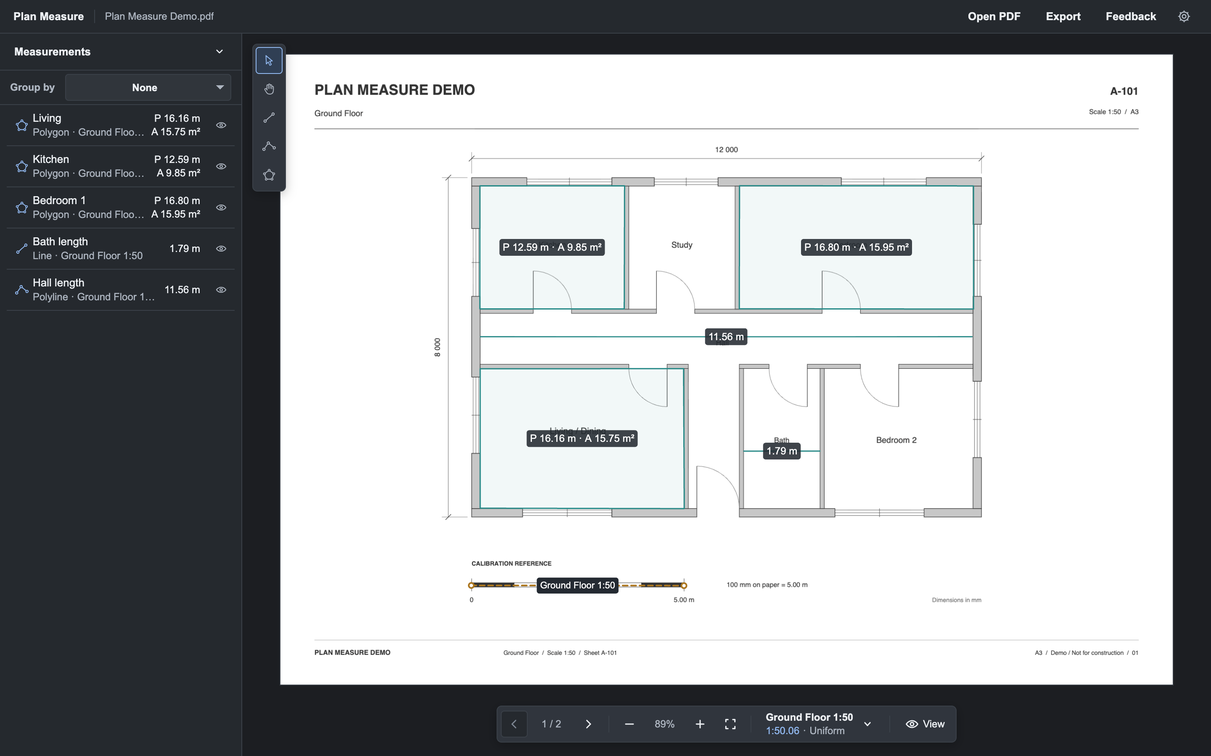
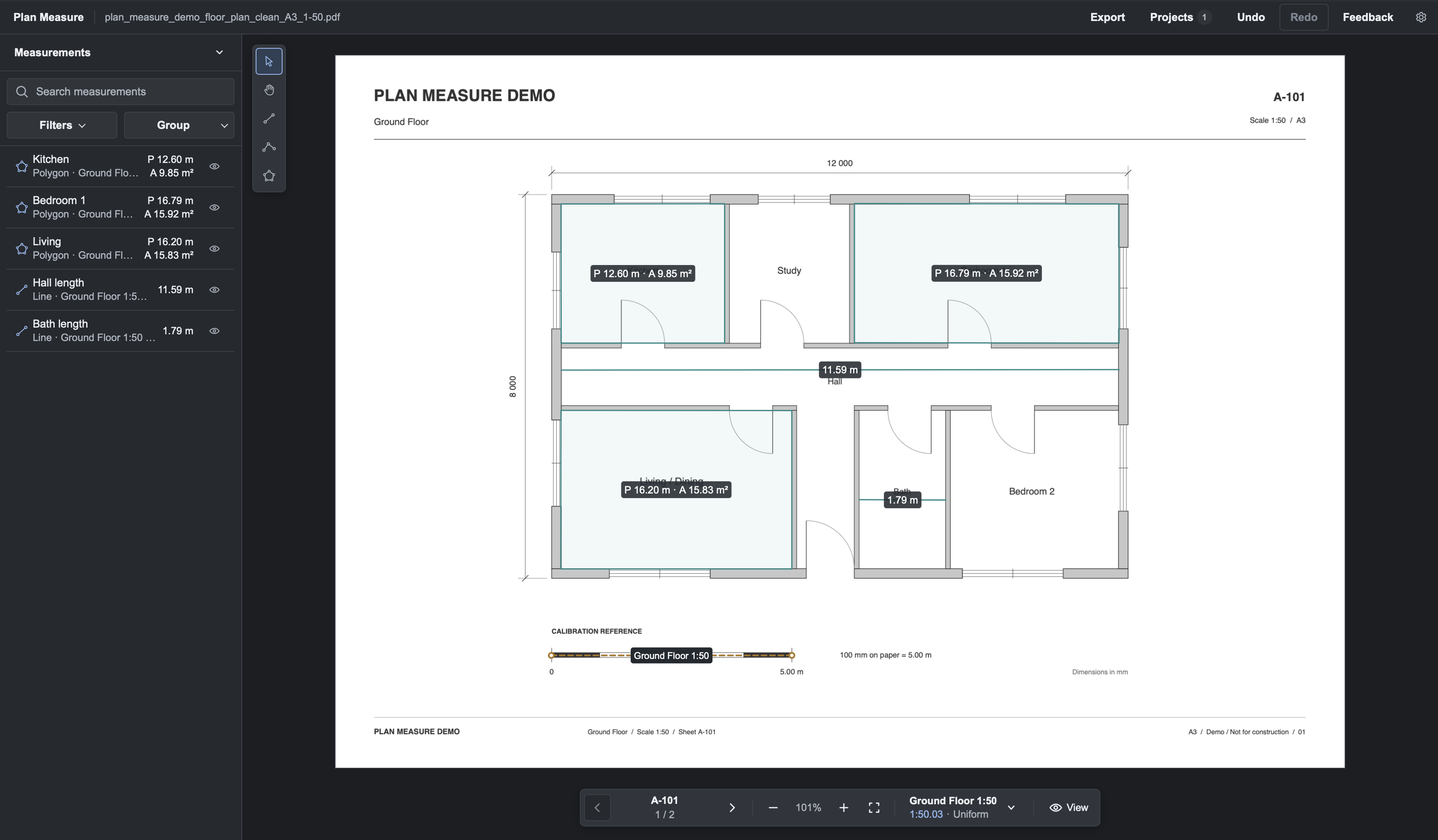
docs: simplify project documentation and update README screenshot

diff --git a/.github/RELEASING.md b/.github/RELEASING.md
@@ -1,46 +1,26 @@
-# Releases
+# Release operations
 
-Release Please owns `package.json`, `package-lock.json`, the version manifest and
-`CHANGELOG.md`. Do not edit their release versions or generated changelog by hand.
+For the release process and versioning rules, see [RELEASING.md](../RELEASING.md). Release Please manages release versions and the changelog; do not edit them by hand.
 
 ## Repository settings
 
-- Keep **Squash merging** as the only merge method. Under **Settings → General →
-  Pull Requests**, set the default squash message to **Pull request title and
-  description** (`squash_merge_commit_title=PR_TITLE`,
-  `squash_merge_commit_message=PR_BODY`). Check the final title before merging.
-- Keep `verify` and `dependency-review` required on `main`, require the branch to
-  be up to date, and retain the existing pull-request and CodeQL protections.
-  Deployment and publication jobs only run after a push to `main`; do not add them
-  as required PR checks.
-- Keep Pages configured with **GitHub Actions** and the `github-pages` environment
-  restricted to `main`. Any environment approval requirement will still pause the
-  deployment until a reviewer approves it.
-- Keep `RELEASE_PLEASE_TOKEN` available to the Release Please workflow. Use a
-  repository-scoped token with **Contents**, **Pull requests**, and **Issues**
-  read/write access, and renew it before expiry. A PAT or GitHub App token lets the
-  bot's PR updates trigger CI. Publication uses the workflow's `GITHUB_TOKEN` with
-  explicit job permissions; no new secret or broader default token permission is
-  needed. Releases created with that token do not trigger additional workflows
-  listening for `release` events; add such downstream work explicitly if needed.
+- Allow only **Squash merging**. Under **Settings → General → Pull Requests**, set the squash message to **Pull request title and description** (`squash_merge_commit_title=PR_TITLE`, `squash_merge_commit_message=PR_BODY`). Check the final title before merging.
+- Require `verify` and `dependency-review` on `main`, require branches to be up to date, and keep the existing PR and CodeQL protections. Deployment and publication run only after pushes to `main`; do not require them on PRs.
+- Configure Pages with **GitHub Actions** and restrict the `github-pages` environment to `main`. Environment approval rules still apply.
+- Provide `RELEASE_PLEASE_TOKEN` to the Release Please workflow. Use a repository-scoped PAT or GitHub App token with **Contents**, **Pull requests**, and **Issues** read/write access so bot PR updates trigger CI. Renew it before expiry; never commit its value.
+
+Publication uses `GITHUB_TOKEN` with explicit job permissions. It needs no additional secret or broader default permissions. Releases created with this token do not trigger workflows listening for `release` events; configure downstream work explicitly if needed.
 
 ## Pull requests and release notes
 
-Use a Conventional Commit title (`feat:`, `fix:`, `perf:`, `revert:`, `docs:`,
-`refactor:`, `chore:`, `ci:`, `test:`, `build:`, or `style:`), with an optional scope
-and `!` for a breaking change. CI validates the title, including after edits.
-Only the squash commit needs to describe the final change; intermediate commits
-may describe the steps taken to implement it.
+Use a Conventional Commit title: `feat:`, `fix:`, `perf:`, `revert:`, `docs:`, `refactor:`, `chore:`, `ci:`, `test:`, `build:`, or `style:`. Add a scope if useful and `!` for a breaking change. CI checks the title, including after edits. The final squash commit describes the complete change; intermediate commits can describe individual steps.
 
-Keep the existing **Summary**, **Validation**, and **Related Issue** structure.
-Write the first Summary bullet as a complete, concrete description of the change
-and its user-visible effect. For example:
+Follow the PR template. Write the first **Summary** bullet as a complete description of the change and its effect. Omit **Related Issue** when there is no issue.
 
 ```markdown
 ## Summary
 
 - Add annotated PDF export that preserves the original pages and overlays visible measurements and labels.
-- Explain any additional implementation detail here.
 
 ## Validation
 
@@ -51,78 +31,39 @@ and its user-visible effect. For example:
 - Closes #113
 ```
 
-The first Summary bullet (including wrapped continuation lines) enriches the
-release entry automatically. When a commit produces multiple distinct changelog
-entries, their specific descriptions are retained. Other bullets and validation commands are not copied
-into release notes. Avoid placeholders or a first bullet that merely says “Fix the
-bug”. Without a usable Summary, the generated changelog description is retained;
-the automation does not invent missing context. Keep the Summary accurate when
-updating a PR. No separate release-note field or manual release editing is needed.
+The first Summary bullet, including continuation lines, supplies the release-note description. Other bullets and validation commands are excluded. Keep this summary accurate when updating a PR. If it is missing or unusable, the generated changelog description is kept. When a commit produces several distinct changelog entries, their specific descriptions are preserved.
 
-Notes normalize initial capitalization and terminal punctuation, retain Markdown,
-link the source PR and explicit `Closes` / `Fixes` / `Resolves` issue references,
-and retain a commit link if no PR/issue reference is available. Source PRs must
-match the actual squash commit; a mentioned issue is never assumed to be a PR.
-Breaking-change explanations are preserved in their own section. Documentation
-PRs (`docs:`) appear in the **Documentation** section and can create a patch release
-on their own. Other hidden changelog types remain hidden; `ci:` alone does not
-create a new product release.
+Release notes preserve Markdown, normalize initial capitalization and final punctuation, and link the source PR and explicit `Closes`, `Fixes`, or `Resolves` references. A commit link is kept when no PR or issue link is available. The source PR must match the squash commit; mentioning an issue does not make it a source PR.
 
-A preview using only the local changelog is included in the CI job summary. To
-preview the enriched notes locally, with a GitHub token available as `GH_TOKEN`:
+Breaking changes have their own section. Documentation PRs (`docs:`) appear under **Documentation** and can produce a patch release. Other maintenance types stay hidden; `ci:` alone does not create a release.
+
+CI includes a preview based on the local changelog. To preview notes with PR summaries, set `GH_TOKEN` and run:
 
 ```bash
 node .github/scripts/preview-release-notes.mjs --with-pull-requests
 ```
 
-This command performs only reads. It does not modify the changelog or any release.
+The preview reads data without changing the changelog or releases.
 
-## Publishing
+## Publication sequence
 
-1. Merge ordinary PRs using squash. After the main pipeline succeeds, Release
-   Please creates or updates its draft release PR. Keep its generated version, branch name and state labels intact.
-2. When ready to ship, mark the release PR ready, wait for required checks, then
-   squash-merge it. Do not create tags or releases manually.
-3. The `CI` run for that exact main commit runs `verify`, then the reusable Pages
-   workflow, then the reusable publication workflow. A failed check or deployment
-   blocks publication. Pages continues to deploy ordinary main commits too.
-4. Publication validates all version files, creates a tag at the tested SHA,
-   prepares and verifies a draft with complete notes, then publishes it. Only
-   afterward does it reconcile `autorelease: tagged` and `autorelease: pending`.
-5. Release Please refreshes the next release PR after publication. This also
-   picks up changes merged while an earlier release was pending. It can be
-   refreshed manually with the **Release Please** workflow on `main`.
+1. Squash merge ordinary PRs. After the main pipeline succeeds, Release Please creates or updates its draft release PR. Leave its generated version, branch name, and state labels intact.
+2. To publish, mark the release PR ready, wait for required checks, and squash merge it. Do not create tags or releases manually.
+3. CI runs `verify`, then Pages deployment, then publication for that exact commit. A failed check or deployment blocks publication. Ordinary main commits also deploy to Pages.
+4. Publication verifies version files, the successful Pages `deploy` job, and the unique merged Release Please PR with `autorelease: pending`. It creates the tag at the validated SHA, prepares and verifies a draft release with complete notes, and publishes it. Only then does it update the `autorelease: tagged` and `autorelease: pending` labels.
+5. Release Please refreshes the next release PR, including changes merged while an earlier release was pending. To refresh it manually, run the **Release Please** workflow on `main`.
 
-Main pipelines queue without canceling a pending release when more PRs merge.
-GitHub's [`queue: max`](https://docs.github.com/en/actions/how-tos/write-workflows/choose-when-workflows-run/control-workflow-concurrency) has a platform limit of 100 pending runs and orders them by
-when they enter the queue. The Pages guard prevents an old rerun or out-of-order
-run from rolling back a newer successful deployment. Release Please and release
-publication also share a serialization group so they cannot observe a half-updated
-label transition.
+Main pipelines queue without canceling pending releases. GitHub's [`queue: max`](https://docs.github.com/en/actions/how-tos/write-workflows/choose-when-workflows-run/control-workflow-concurrency) allows up to 100 pending runs, ordered by queue entry time. The Pages guard prevents older runs from replacing a newer successful deployment. Release Please and publication share a serialization group to keep label updates consistent.
 
 ## Recovery
 
-Use **Actions → CI → the affected main run → Re-run failed jobs**. The reusable
-workflows are part of this run; they are not separate manually dispatched flows.
-Prefer retrying a failure before merging additional work.
+Open **Actions → CI → the affected main run → Re-run failed jobs**. Deployment and publication are reusable workflows within that run, not separate manually dispatched workflows. Retry failures before merging more work when possible.
 
-- Existing tags must point to the exact validated SHA. A mismatch stops the run;
-  the automation never moves or deletes a tag.
-- A tag without a release or a partially prepared draft is completed on retry.
-- A published release is verified and missing state labels are repaired. Its
-  notes are preserved even if someone later edits a source PR.
-- Retrying an older published version does not replace a newer **Latest** release.
-- An old run whose exact SHA previously deployed can finish publication without
-  redeploying over newer Pages content. If a newer SHA is already deployed and
-  the old SHA never deployed successfully, the run fails safely. Do not delete a
-  newer deployment or move a tag to bypass it; investigate that skipped release
-  before deciding how to recover it.
-- API failures are failures, not “release does not exist”. Correct permissions,
-  renew an expired token, or retry a transient failure as appropriate.
+- Tags must point to the validated SHA. A mismatch fails the run; the automation never moves or deletes tags.
+- Retries complete missing releases and partially prepared drafts.
+- Retries verify published releases and repair missing state labels. Published notes are preserved even if the source PR is edited later.
+- Retrying an older version does not replace a newer **Latest** release.
+- An older run can finish publication if its exact SHA previously deployed, without replacing newer Pages content. If it never deployed and a newer SHA is already deployed, it fails. Investigate the skipped release; do not delete a newer deployment or move a tag to bypass the guard.
+- API errors fail the run. Check permissions, renew expired tokens, or retry transient failures; do not treat an API failure as a missing release.
 
-Before merging the workflow migration, let any in-flight executions of the old
-standalone deployment/publication workflows finish.
-
-The local test suite simulates API state transitions and failures. The first
-post-merge run still needs to confirm real GitHub permissions, environment rules
-and publication behavior. Local checks do not create a test release in GitHub.
+Local tests cover API transitions and failures. After workflow changes, verify GitHub permissions, environment rules, and publication behavior in the first main run. Local checks do not publish a test release.

diff --git a/README.md b/README.md
@@ -35,9 +35,9 @@ Each page can have multiple named scales. Choose **Add scale** in **Scales**:
 - **Custom ratio**: enter the denominator of a known 1:n scale.
 - **Standard ratios**: choose 1:20, 1:50, or 1:100.
 
-Reference distances accept mm, cm, m, decimal inches or feet, and feet-and-inches input. Select the active scale from the controls below the plan before drawing.
+Reference distances accept mm, cm, m, decimal inches or feet, and feet-and-inches input. Choose the active scale below the plan before drawing.
 
-The active scale applies only to new measurements. Existing measurements keep their original scale. Expand a scale to rename it, set its ratio, recalibrate it, or edit its reference points. Changing its calibration updates linked measurements, with confirmation when the scale is in use; renaming it only changes its name.
+New measurements use the active scale; existing ones keep their original scale. Expand a scale to rename it, set its ratio, recalibrate it, or edit its reference points. Calibration changes update linked measurements, with confirmation when the scale is in use. Renaming a scale leaves its calibration unchanged.
 
 To reuse a scale, choose its copy button in **Scales**, switch to another page, and choose **Apply copied scale** below the plan. The copied scale is independent of the original.
 
@@ -47,9 +47,9 @@ To reuse a scale, choose its copy button in **Scales**, switch to another page, 
 
 While drawing, use **Snap** to align points with visible measurement geometry and **Ortho** to constrain segments horizontally or vertically. **Cancel** or `Escape` discards the current drawing.
 
-With **Select**, move a measurement or drag its vertices to edit its geometry. The toolbar above the plan provides rename, duplicate, **Details**, and delete actions for the selected measurement. You can also copy and paste a measurement with the shortcuts below.
+With **Select**, move a measurement or drag its vertices to edit its geometry. Use the toolbar above the plan to rename, duplicate, inspect, or delete the selection. Copy and paste with the shortcuts below.
 
-In **Details**, review the measurement's results and scale, rename it, write a note and choose **Save note**, or assign classification values under **Organization**.
+Open **Details** to review results and the scale, rename the measurement, or add a note with **Save note**. Assign classification values under **Organization**.
 
 Create classification dimensions and values in **Classifications**. For example, a **Trade** dimension can contain **Electrical** and **Plumbing** values. Dimensions and values can be renamed, archived, and restored; archived entries keep their existing assignments.
 
@@ -57,7 +57,7 @@ Create classification dimensions and values in **Classifications**. For example,
 
 **Takeoff** totals measurements across all pages, including hidden measurements. Length totals cover Lines and Polylines; perimeter and area totals cover Polygons. Choose a **Breakdown** by page, type, or classification dimension. Measurements that cannot be calculated are excluded with a notice.
 
-Use **Undo** and **Redo** in the top bar or their keyboard shortcuts to reverse and restore edits to measurements, scales, classifications, and page labels. History keeps up to 100 edits and resets when a project is opened or the app is reloaded. A new edit after undo clears the redo history. Page navigation and display settings are not part of this history.
+Use **Undo** and **Redo** in the top bar or their shortcuts for measurement, scale, classification, and page-label edits. History holds up to 100 edits and resets when you open a project or reload the app. Editing after undo clears redo history. Navigation and display settings are excluded.
 
 ## View and settings
 
@@ -75,11 +75,11 @@ The controls below the plan let you change pages, zoom, or **Fit** the page to t
 
 Projects are autosaved on this device. Choose **Projects** in the top bar to continue or open a saved project, export it, import a project file, or discard a project after confirmation. Opening another PDF or importing a project creates a new local project and keeps existing saved projects.
 
-A `.planmeasure` export contains the PDF and working data so you can back up a project or import it on another device. Undo/redo history is not included.
+Export a `.planmeasure` file to back up the PDF and working data or transfer them to another device.
 
-PDF processing happens in the browser. Plan Measure has no account or cloud storage service, and the application code does not send plan or measurement data to a server. PDFs and project data are stored in IndexedDB; appearance, deletion-confirmation, and recovered-plan workspace preferences are stored in local storage.
+Plan Measure processes PDFs in your browser and does not send plans or measurements to a server. PDFs and projects stay in IndexedDB; appearance, deletion-confirmation, and startup workspace preferences stay in local storage.
 
-Completed changes are autosaved, with pending changes flushed when the tab is hidden or the page exits when possible. Drawing drafts, Snap, Ortho, zoom, pan, and undo/redo history are not persisted. Clearing browser site data removes locally saved projects; export `.planmeasure` files to keep backups.
+Completed edits are autosaved. Pending saves run when the tab is hidden or closed, when possible. Drafts, Snap, Ortho, zoom, pan, and undo/redo history are not saved. Clearing browser site data removes saved projects; keep `.planmeasure` backups.
 
 If local storage is unavailable or autosave fails, follow the warning shown by the app and export your work before leaving. Older saved data is migrated when possible; if it requires repair, autosave stays paused until the reported problems are resolved.
 
@@ -117,7 +117,7 @@ Use `Cmd` on macOS and `Ctrl` on Windows or Linux.
 | `Cmd/Ctrl+V`           | Paste a copied measurement                                               |
 | `Delete` / `Backspace` | Delete the selected measurement                                          |
 
-Application shortcuts remain available after using non-editing controls. Text fields, dialogs, and native control actions retain their normal keyboard behavior.
+Shortcuts work outside text fields and dialogs. Native control actions keep their usual keys.
 
 ## Limitations
 

diff --git a/RELEASING.md b/RELEASING.md
@@ -1,48 +1,32 @@
 # Releasing Plan Measure
 
-Plan Measure uses Release Please to prepare releases and publishes them only after the release commit has passed CI and deployed successfully to GitHub Pages.
+Release Please prepares release pull requests. CI publishes a release only after its commit passes validation and deploys to GitHub Pages.
 
-## Development pull requests
+## Pull requests
 
-Because the repository uses squash merge, development pull request titles must use Conventional Commits. The squashed commit on `main` is what Release Please analyzes. Typical prefixes are `feat:`, `fix:`, `perf:`, `docs:`, `refactor:`, and `chore:`; use `feat!:` or `fix!:` for a breaking change.
+Use a Conventional Commit title, such as `feat:`, `fix:`, `perf:`, or `docs:`. Add `!` for a breaking change. The repository uses squash merge, so Release Please reads the PR title from the resulting commit on `main`.
 
-After changes are merged or pushed to `main`, the `Release Please` workflow creates or updates a **draft Release PR**. During the normal release flow, maintainers must not manually change release versions or the generated changelog entry. Release Please updates:
+Write the first **Summary** bullet as a concrete description of the change and its effect. It becomes the release-note description. Include checks under **Validation** and issue references under **Related Issue**.
 
-- `package.json`
-- `package-lock.json`
-- `.release-please-manifest.json`
-- `CHANGELOG.md`
+Release Please manages versions in `package.json`, `package-lock.json`, and `.release-please-manifest.json`, along with `CHANGELOG.md`. Do not edit them by hand to prepare a release.
 
-The workflow uses the repository secret `RELEASE_PLEASE_TOKEN` when creating or updating the Release PR so normal pull request workflows can run for those updates. The secret must be configured before this release automation is merged; its value must not be documented or committed.
+## Publishing
 
-## Publishing a release
+1. Review the draft release PR and its version and changelog changes.
+2. Mark it **Ready for review**, wait for required checks, and squash merge it into `main`.
+3. CI validates the merged commit, deploys it to Pages, and publishes its tag and GitHub Release.
+4. Release Please creates or updates the next draft release PR.
 
-1. Review the draft Release PR and its generated version and changelog changes.
-2. Mark the Release PR **Ready for review** when the release should be published.
-3. Wait for all required checks to pass, then squash merge the Release PR into `main`.
-4. CI runs for the resulting `main` commit.
-5. `Deploy to GitHub Pages` runs after successful CI and deploys that exact `main` SHA.
-6. `Publish Release` verifies the successful Pages `deploy` job and confirms that the SHA came from the unique merged Release Please PR with `autorelease: pending`.
-7. Release Please creates tag `vX.Y.Z` and the corresponding GitHub Release, then marks the Release PR as tagged.
-
-GitHub Pages continues to deploy from `main`. Creating or pushing a release tag does not deploy the application.
-
-Use Node.js 24 for local release validation when needed:
-
-```bash
-npm ci
-npm test
-npm run lint
-npm run build
-git diff --check
-```
+Do not create release tags or edit `autorelease` labels manually. Pages deploys from `main`; pushing a tag does not deploy the app.
 
 ## Versioning
 
-- **PATCH**: backwards-compatible bug fixes.
-- **MINOR**: backwards-compatible features or improvements.
-- **MAJOR**: breaking changes that require migration or introduce incompatible behavior.
+- **PATCH**: compatible bug fixes and documentation updates.
+- **MINOR**: compatible new features.
+- **MAJOR**: breaking changes.
 
-## Recovery
+## Recovery and configuration
 
-If Release Please cannot update the Release PR, fix the workflow or token problem and rerun the failed automation rather than editing generated release files manually. If publication fails after the Release PR has been merged, first verify CI, the Pages deployment, the exact `main` SHA, and the `autorelease: pending` state, then rerun `Publish Release`. Only use a manual tag and GitHub Release as an exceptional recovery path after confirming the release version, changelog, and deployed SHA are all correct.
+For a failed release, open **Actions → CI → the affected main run → Re-run failed jobs**. Resolve the reported failure before retrying; do not edit generated files or move tags to bypass it.
+
+See [release operations](.github/RELEASING.md) for repository settings, token permissions, release-note previews, and recovery details. Local validation commands are in [CONTRIBUTING.md](CONTRIBUTING.md).

diff --git a/CODE_OF_CONDUCT.md b/CODE_OF_CONDUCT.md
@@ -1,10 +1,10 @@
 # Code of Conduct
 
-Plan Measure is maintained as an open source project. We want every contribution and interaction to be respectful, constructive, and welcoming.
+Treat everyone with respect. Keep discussions constructive and welcoming.
 
 ## Expected behavior
 
-- Be respectful and assume good intent.
+- Assume good intent.
 - Focus feedback on the work and its impact.
 - Explain disagreements clearly and calmly.
 - Welcome different backgrounds and levels of experience.
@@ -15,10 +15,8 @@ Plan Measure is maintained as an open source project. We want every contribution
 - Harassment, discrimination, threats, or personal attacks.
 - Deliberate disruption of discussions, issues, or pull requests.
 - Publishing private information without permission.
-- Any conduct that would make a reasonable contributor feel unsafe or unwelcome.
+- Conduct that makes contributors feel unsafe or unwelcome.
 
 ## Reporting concerns
 
-Do not post sensitive conduct details publicly. Open a minimal issue asking a maintainer for a private contact method without naming people or sharing private information. Once a private channel is arranged, report the concern there.
-
-Contributors who follow this code of conduct help keep Plan Measure a healthy project for everyone.
+Open an issue asking a maintainer for a private contact method. Do not name people or share sensitive details publicly. Once a private channel is arranged, report the concern there.

diff --git a/CONTRIBUTING.md b/CONTRIBUTING.md
@@ -2,9 +2,9 @@
 
 ## Before opening an issue
 
-- Search the open issues first so related work stays together.
+- Search existing issues before opening a new one.
 - Use the bug report template for reproducible problems.
-- Use the feature request template for one focused improvement.
+- Use the feature request template for improvements.
 - Report security vulnerabilities privately as described in [SECURITY.md](SECURITY.md).
 - Keep each issue focused on one problem or proposal.
 
@@ -23,8 +23,9 @@ Before opening a pull request, run:
 
 ```bash
 npm run lint
-npm run test
+npm test
 npm run build
+git diff --check
 ```
 
 Use `npm run format` when formatting is part of the change. Keep generated or unrelated changes out of the pull request.
@@ -38,4 +39,4 @@ Use `npm run format` when formatting is part of the change. Keep generated or un
 - Update the README or other documentation when behavior or setup changes.
 - Do not commit PDFs, credentials, secrets, or other private files.
 
-Contributions are reviewed through GitHub pull requests. Note any known limitations or follow-up work.
+Mention any known limitations or follow-up work in the PR.

diff --git a/.github/PULL_REQUEST_TEMPLATE.md b/.github/PULL_REQUEST_TEMPLATE.md
@@ -1,23 +1,22 @@
 ## Summary
 
 <!--
-This repository uses squash merge, so the pull request title becomes the commit
-that Release Please analyzes. Use Conventional Commits, for example:
+Use a Conventional Commit title. Squash merge uses it as the commit title
+for Release Please:
 feat: add ... | fix: correct ... | perf: improve ...
 docs: ... | refactor: ... | chore: ...
 Breaking changes: feat!: ... or fix!: ...
 -->
 
 <!--
-What changed and why? Write the first bullet as a complete, concrete description
-of the change and its user-visible effect. It is used automatically in release
-notes. See .github/RELEASING.md.
+Describe the change and its effect in the first bullet; it becomes the
+release-note description. See .github/RELEASING.md.
 -->
 
 ## Validation
 
 <!-- What did you test or check? -->
 
-## Related issue
+## Related Issue
 
-<!-- Closes #123 -->
+<!-- Closes #123. Omit this section if there is no related issue. -->
